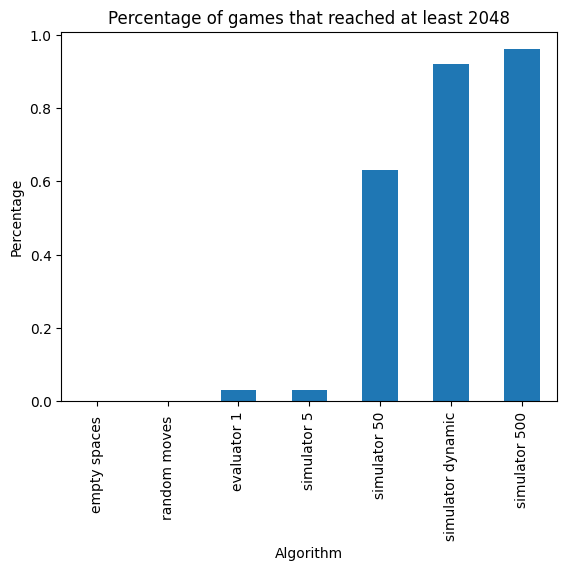
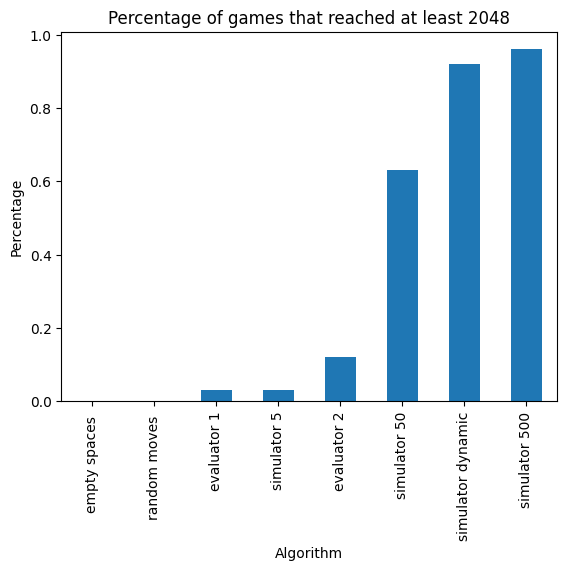
Clean up of project

diff --git a/new_analysis.py b/new_analysis.py
@@ -17,9 +17,9 @@ s050 = import_file_as_db("simulator50", "simulator", 50)
 s500 = import_file_as_db("simulator500", "simulator", 500)
 sdyn = import_file_as_db("dynamicsimulator", "simulator", "dynamic")
 evl1 = import_file_as_db("evaluator1", "evaluator", 1)
-# evl2 = import_file_as_db("evaluator2", "evaluator", 2)
+evl2 = import_file_as_db("evaluator2", "evaluator", 2)
 
-df = pd.concat([espa,rand,s005, s050, s500,sdyn, evl1]) # evl1])
+df = pd.concat([espa,rand,s005, s050, s500,sdyn, evl1, evl2])
 df["score"] = pd.to_numeric(df["score"])
 df["highest_reached"] = pd.to_numeric(df["highest_reached"])
 
@@ -50,6 +50,7 @@ distribution = df.groupby('algorithm')['highest_reached'].value_counts().unstack
 
 # order the columns by the highest number reached
 distribution = distribution.reindex(sorted(distribution.columns), axis=1)
+distribution = distribution.sort_values(by=[4096, 2048, 1024, 512], ascending=False)
 
 colors = {
     32: 'black',
@@ -67,6 +68,7 @@ distribution.plot.bar(stacked=True, color=distribution.columns.map(colors))
 plt.xlabel('Algorithm')
 plt.ylabel('Distribution of highest number')
 plt.title('Distribution of highest number reached by Algorithm')
+plt.legend(loc='center left', bbox_to_anchor=(1, 0.5))
 plt.savefig('plots/distribution_of_highest_reached.png', bbox_inches='tight')
 plt.show()
 

diff --git a/src/basic/Game.java b/src/basic/Game.java
@@ -93,7 +93,7 @@ public class Game {
             }
         }
         else {
-            System.out.print("Can't spawn a number. There are insufficient empty spaces.");
+            System.out.println("Can't spawn a number. There are insufficient empty spaces.");
         }
     }
 
@@ -926,22 +926,21 @@ public class Game {
         switch (bestMove) {
             case "up":
                 this.moveUp();
-                this.spawnRandomNumber();
                 break;
             case "right":
                 this.moveRight();
-                this.spawnRandomNumber();
                 break;
             case "down":
                 this.moveDown();
-                this.spawnRandomNumber();
                 break;
             case "left":
                 this.moveLeft();
-                this.spawnRandomNumber();
                 break;
+            }
+        
+        if (this.emptySpaces().size() > 0) {
+            this.spawnRandomNumber();
         }
-
     }
 
     // weighted position eval calculated

diff --git a/src/Main.java b/src/Main.java
@@ -33,13 +33,5 @@ public class Main {
         frame.setIconImage(ImageIO.read(new File("static/2048.png")));
         frame.pack();
         frame.setVisible(true);
-
-        // computer plays the game
-
-        Thread.sleep(1000);
-        frame.panel.lastComputer = "positionEval";
-        frame.panel.stopSwingworker = false;
-		frame.panel.repaint();
-		frame.panel.play(frame.panel.lastComputer);
     }
 }
